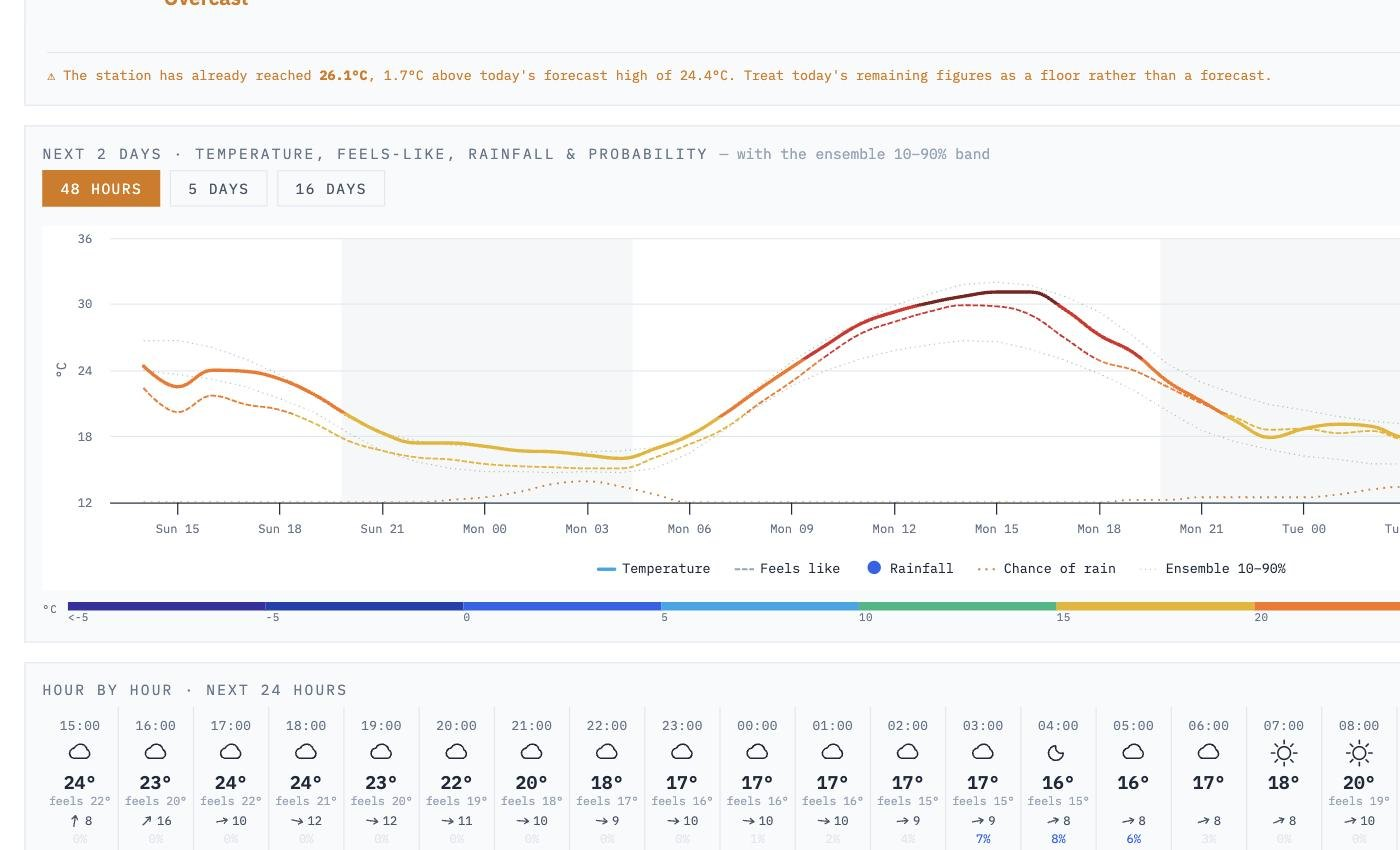
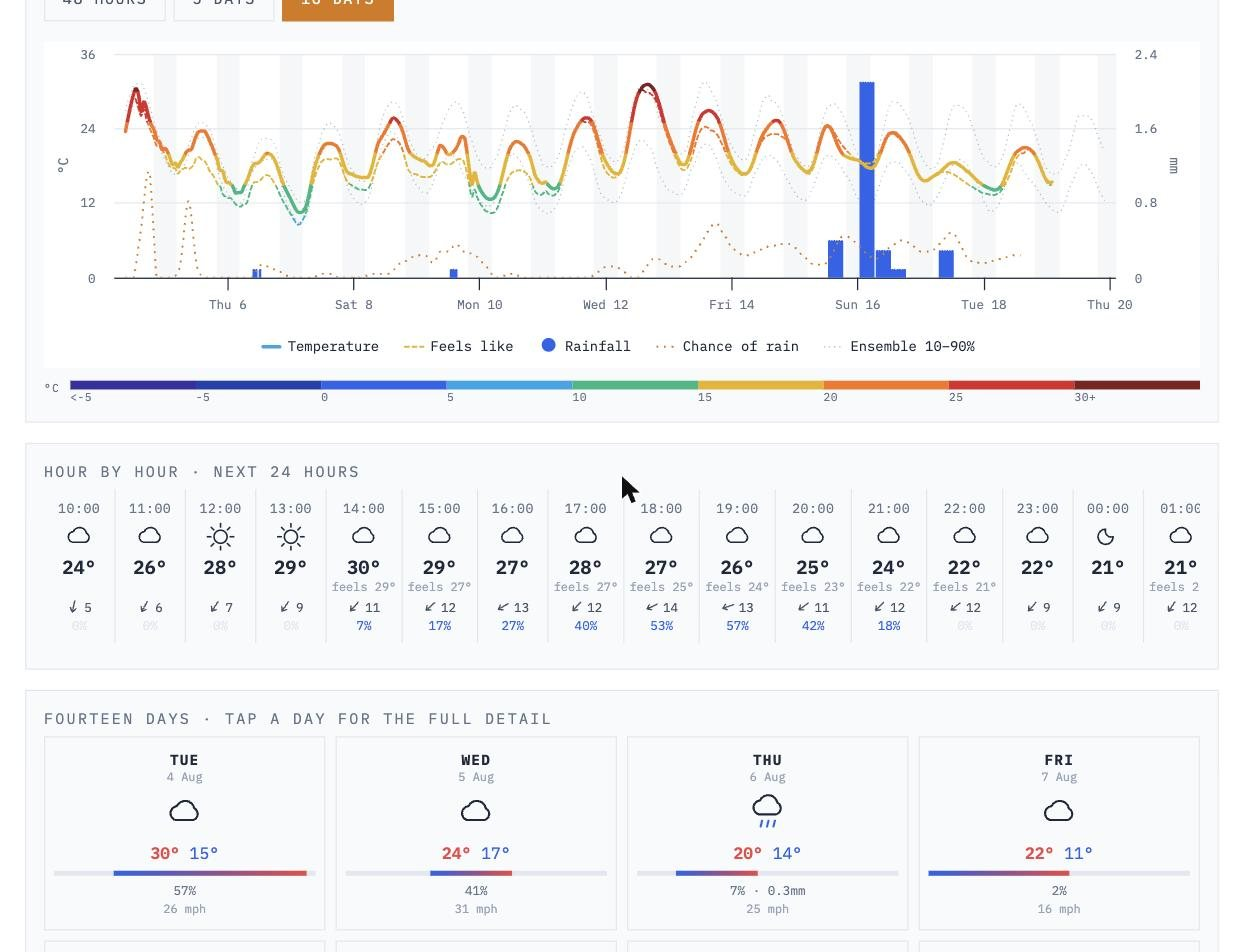
v1.5.0 — anemometer health check, dark screenshot, 16-day forecast shot
verify.py now records the station's daily max wind and gust alongside the
model's and tracks the ratio over months. The absolute ratio is not the
signal — a sheltered low mast genuinely reads well under an open-terrain 10m
model and always will. A bearing drying out shows as that ratio falling while
nothing about the site changes, so only the trend is diagnostic. Verdicts:
collecting (under 14 days), steady, watch (12-25% down on baseline), check the
bearing (25%+).

Gust-to-mean is tracked too, with its blind spot documented: uniform friction
drags mean and gust down together and leaves that ratio unchanged.

Wind is read through a new to_mph() because weewx reports it in whatever unit
it is configured for — this station publishes km/h, so comparing raw numbers
would have been meaningless.

Screenshots: forecast recaptured on the 16-day view, and a dark-theme
dashboard added so the theme is visible to anyone browsing the repo.

diff --git a/index.html b/index.html
@@ -8,7 +8,7 @@
 <title>Fenland</title>
 <link rel="preconnect" href="https://fonts.googleapis.com">
 <link href="https://fonts.googleapis.com/css2?family=IBM+Plex+Mono:wght@400;500;600;700&family=IBM+Plex+Sans:wght@400;500;600;700&display=swap" rel="stylesheet">
-<script src="config.js?v=1.4.0"></script>
+<script src="config.js?v=1.5.0"></script>
 <script>
 /* Resolve the theme before the stylesheets paint, otherwise a dark-mode user
    gets a white flash on every load. Deliberately inline and dependency-free:
@@ -42,8 +42,8 @@
   } catch (e) { /* a broken config must never leave the page unstyled */ }
 })();
 </script>
-<link rel="stylesheet" href="css/dashboard.css?v=1.4.0">
-<link rel="stylesheet" href="css/panels.css?v=1.4.0">
+<link rel="stylesheet" href="css/dashboard.css?v=1.5.0">
+<link rel="stylesheet" href="css/panels.css?v=1.5.0">
 <script src="https://cdn.jsdelivr.net/npm/mqtt@5/dist/mqtt.min.js"></script>
 </head>
 <body>
@@ -327,16 +327,16 @@
     </div>
   </div>
 
-<script src="src/units.js?v=1.4.0"></script>
-<script src="src/colours.js?v=1.4.0"></script>
-<script src="src/airquality.js?v=1.4.0"></script>
-<script src="src/dashboard.js?v=1.4.0"></script>
-<script src="src/ensemble.js?v=1.4.0"></script>
-<script src="src/forecast.js?v=1.4.0"></script>
-<script src="src/climate.js?v=1.4.0"></script>
-<script src="src/verify-panel.js?v=1.4.0"></script>
-<script src="src/windrose.js?v=1.4.0"></script>
-<script src="src/solar.js?v=1.4.0"></script>
-<script src="src/windy.js?v=1.4.0"></script>
+<script src="src/units.js?v=1.5.0"></script>
+<script src="src/colours.js?v=1.5.0"></script>
+<script src="src/airquality.js?v=1.5.0"></script>
+<script src="src/dashboard.js?v=1.5.0"></script>
+<script src="src/ensemble.js?v=1.5.0"></script>
+<script src="src/forecast.js?v=1.5.0"></script>
+<script src="src/climate.js?v=1.5.0"></script>
+<script src="src/verify-panel.js?v=1.5.0"></script>
+<script src="src/windrose.js?v=1.5.0"></script>
+<script src="src/solar.js?v=1.5.0"></script>
+<script src="src/windy.js?v=1.5.0"></script>
 </body>
 </html>

diff --git a/config.example.js b/config.example.js
@@ -40,7 +40,7 @@ window.WXCONFIG = {
     wind: "mph"
   },
 
-  /* Small "FENLAND v1.4.0" credit in the page footer, linking to the
+  /* Small "FENLAND v1.5.0" credit in the page footer, linking to the
      project. It is how people find the skin — but set false to remove it. */
   credit: true,
 

diff --git a/src/dashboard.js b/src/dashboard.js
@@ -23,7 +23,7 @@
   /* Bump on release. Shown in the footer credit and worth quoting in any
      bug report — "which version are you on" is the first question. */
   const FENLAND = {
-    version: "1.4.0",
+    version: "1.5.0",
     url: "https://github.com/digitalurban/fenland"
   };
 

diff --git a/scripts/verify.py b/scripts/verify.py
@@ -129,6 +129,26 @@ def to_c(value, units):
     return v
 
 
+def to_mph(value, units):
+    """weewx may report wind in km/h, m/s, knots or mph depending on how it
+    is configured. Normalise, because the whole point of this check is
+    comparing like with like over months."""
+    if value is None:
+        return None
+    try:
+        v = float(value)
+    except (TypeError, ValueError):
+        return None
+    u = str(units or "").strip().lower().replace(" ", "")
+    if u in ("km/h", "kmh", "kph"):
+        return v * 0.621371
+    if u in ("m/s", "ms", "mps"):
+        return v * 2.236936
+    if u in ("knot", "knots", "kt", "kts"):
+        return v * 1.150779
+    return v                      # already mph, or unlabelled
+
+
 def to_mm(value, units):
     if value is None:
         return None
@@ -166,6 +186,8 @@ def fetch_observed():
         "tmax": grab("max temperature", to_c),
         "tmin": grab("min temperature", to_c),
         "rain": grab("rain total", to_mm),
+        "wind": grab("max wind speed", to_mph),
+        "gust": grab("max wind gust", to_mph),
     }
 
 
@@ -218,6 +240,119 @@ def fetch_forecast():
                 per_model[m] = vals
         if per_model:
             out[date] = per_model
+    return out
+
+
+
+# ── anemometer health ─────────────────────
+def fetch_reference_wind(days=3):
+    """The model's own view of the last few days, used as a yardstick for the
+    station's anemometer. Not a forecast — past_days returns the analysis, so
+    it is the best available estimate of what the wind actually did."""
+    params = {
+        "latitude": f"{LAT:.4f}", "longitude": f"{LON:.4f}",
+        "daily": "wind_speed_10m_max,wind_gusts_10m_max",
+        "timezone": TZ, "wind_speed_unit": "mph",
+        "past_days": days, "forecast_days": 1,
+    }
+    r = requests.get(FORECAST_URL, params=params, timeout=45)
+    r.raise_for_status()
+    d = (r.json() or {}).get("daily") or {}
+    out = {}
+    for i, date in enumerate(d.get("time", [])):
+        spd = (d.get("wind_speed_10m_max") or [None])[i:i+1]
+        gus = (d.get("wind_gusts_10m_max") or [None])[i:i+1]
+        out[date] = {"wind": spd[0] if spd else None,
+                     "gust": gus[0] if gus else None}
+    return out
+
+
+def _median(xs):
+    xs = sorted(x for x in xs if x is not None)
+    if not xs:
+        return None
+    n = len(xs)
+    return xs[n // 2] if n % 2 else (xs[n // 2 - 1] + xs[n // 2]) / 2.0
+
+
+def anemometer(store):
+    """Watch the station's wind against the model's, and say whether the
+    relationship is drifting.
+
+    The absolute ratio means little on its own: a lower mast in a sheltered
+    village will always read well under an open-terrain 10m model, and that
+    is siting, not a fault. What matters is CHANGE. A bearing that is drying
+    out adds friction gradually, so the ratio falls over weeks to months
+    while nothing else about the site alters.
+
+    Gust ratio is tracked alongside because a stiffening rotor loses the
+    peaks before it loses the mean — but note it cannot catch uniform
+    under-reading, where mean and gust fall together and their ratio holds.
+    """
+    obs = store.get("observations", {})
+    ref = store.get("reference", {})
+    rows = []
+    for date in sorted(obs):
+        o, r = obs[date], ref.get(date)
+        if not r:
+            continue
+        if o.get("wind") and r.get("wind"):
+            rows.append({
+                "date": date,
+                "speed": o["wind"] / r["wind"] if r["wind"] else None,
+                "gust": (o["gust"] / r["gust"]) if o.get("gust") and r.get("gust") else None,
+                "ratio_g2m": (o["gust"] / o["wind"]) if o.get("gust") and o["wind"] else None,
+            })
+
+    today = dt.date.today()
+    def window(lo, hi):
+        a = (today - dt.timedelta(days=hi)).isoformat()
+        b = (today - dt.timedelta(days=lo)).isoformat()
+        return [x for x in rows if a <= x["date"] <= b]
+
+    recent = window(0, 30)
+    baseline = window(31, 120)
+
+    out = {
+        "days": len(rows),
+        "recent_days": len(recent),
+        "speed_ratio_recent": _median([x["speed"] for x in recent]),
+        "gust_ratio_recent": _median([x["gust"] for x in recent]),
+        "gust_to_mean_recent": _median([x["ratio_g2m"] for x in recent]),
+        "speed_ratio_baseline": _median([x["speed"] for x in baseline]),
+        "verdict": None,
+        "note": None,
+    }
+
+    if len(recent) < 14:
+        out["verdict"] = "collecting"
+        out["note"] = (f"{len(recent)} of 14 days needed before this means anything.")
+        return out
+
+    r_now, r_base = out["speed_ratio_recent"], out["speed_ratio_baseline"]
+    if r_base and r_now and len(baseline) >= 21:
+        drop = 1 - (r_now / r_base)
+        out["drop_vs_baseline"] = round(drop, 3)
+        if drop >= 0.25:
+            out["verdict"] = "check the bearing"
+            out["note"] = (f"Reads {drop*100:.0f}% lower against the model than it did "
+                           f"a month or more ago. Spin the cups by hand: they should "
+                           f"turn freely and coast several seconds to a silent stop.")
+        elif drop >= 0.12:
+            out["verdict"] = "watch"
+            out["note"] = f"Down {drop*100:.0f}% on its own baseline — not conclusive, worth watching."
+        else:
+            out["verdict"] = "steady"
+            out["note"] = "No meaningful drift against the model."
+    else:
+        out["verdict"] = "steady"
+        out["note"] = "Not enough history yet for a trend; no drift visible so far."
+
+    g2m = out["gust_to_mean_recent"]
+    if g2m and g2m > 2.6:
+        out["note"] = ((out["note"] or "") +
+                       f" Gusts are running {g2m:.1f}x the mean, which is high — a stiff "
+                       f"rotor loses the average before it loses the peaks.")
     return out
 
 
@@ -437,17 +572,29 @@ def main():
     except Exception as e:
         log(f"could not fetch forecast: {e}")
 
-    # 3. prune anything older than two years, to keep the file sane
+    # 3. the model's own view of the last few days, as an anemometer yardstick
+    try:
+        store.setdefault("reference", {}).update(fetch_reference_wind())
+        log("stored wind reference for the last few days")
+    except Exception as e:
+        log(f"could not fetch wind reference: {e}")
+
+    # 4. prune anything older than two years, to keep the file sane
     cutoff = (dt.date.today() - dt.timedelta(days=730)).isoformat()
     store["observations"] = {k: v for k, v in store["observations"].items() if k >= cutoff}
     store["forecasts"] = {k: v for k, v in store["forecasts"].items() if k >= cutoff}
+    store["reference"] = {k: v for k, v in store.get("reference", {}).items() if k >= cutoff}
     save_store(store)
 
-    # 4. score and publish
+    # 5. score and publish
     recent_from = (dt.date.today() - dt.timedelta(days=RECENT_DAYS)).isoformat()
     all_dates = sorted(store["observations"])
+    air = anemometer(store)
+    log(f"anemometer: {air['verdict']} — {air['note']}")
+
     payload = {
         "generated": int(time.time() * 1000),
+        "anemometer": air,
         "days_collected": len(all_dates),
         "first_date": all_dates[0] if all_dates else None,
         "last_date": all_dates[-1] if all_dates else None,

diff --git a/README.md b/README.md
@@ -286,6 +286,8 @@ what Belchertown does. The initial value is resolved by a small inline script
 in `<head>`, before the stylesheets paint — anything in an external file
 arrives too late and you get a white flash on every load.
 
+<a href="docs/img/dashboard-dark.jpg"><img src="docs/img/dashboard-dark.jpg" width="900" alt="Dark theme"></a>
+
 The gauges, compass and barograph are SVG drawn with those same variables, so
 they follow without special handling. Highcharts caches its theme, so it is
 re-applied and the visible chart redrawn when the mode changes.
@@ -434,6 +436,33 @@ Setup in [docs/verification.md](docs/verification.md).
 
 ---
 
+### Anemometer health
+
+`verify.py` also watches the anemometer. Each night it records the station's
+daily maximum wind and gust alongside the model's for the same day, and tracks
+the ratio between them over months.
+
+The absolute ratio means little on its own — a lower mast in a sheltered
+village will always read well under an open-terrain 10 m model, and that is
+siting, not a fault. What matters is **change**. A bearing drying out adds
+friction gradually, so the ratio falls over weeks while nothing about the site
+alters. The check reports one of:
+
+| Verdict | Meaning |
+|---|---|
+| `collecting` | Fewer than 14 days recorded; says nothing yet |
+| `steady` | No meaningful drift against the model |
+| `watch` | Down 12–25% on its own baseline |
+| `check the bearing` | Down 25% or more — spin the cups by hand |
+
+Gust-to-mean ratio is tracked alongside, since a stiffening rotor loses the
+peaks before the mean. Note its blind spot: if friction drags mean and gust
+down together, that ratio holds steady and only the model comparison catches
+it. Neither test replaces the mechanical one — freely spinning cups coast for
+several seconds to a silent stop.
+
+---
+
 ## Data sources
 
 - **[Open-Meteo](https://open-meteo.com)** — forecast, ensemble and ERA5 archive
@@ -449,7 +478,7 @@ Open-Meteo's paid tier.
 
 ## Status and roadmap
 
-Version 1.4.0. Running in production at
+Version 1.5.0. Running in production at
 [digitalurban.github.io/fenland](https://digitalurban.github.io/fenland/), which
 is also the demo — so if the demo is broken, so is the author's weather station.
 

diff --git a/docs/index.md b/docs/index.md
@@ -286,6 +286,8 @@ what Belchertown does. The initial value is resolved by a small inline script
 in `<head>`, before the stylesheets paint — anything in an external file
 arrives too late and you get a white flash on every load.
 
+<a href="img/dashboard-dark.jpg"><img src="img/dashboard-dark.jpg" width="900" alt="Dark theme"></a>
+
 The gauges, compass and barograph are SVG drawn with those same variables, so
 they follow without special handling. Highcharts caches its theme, so it is
 re-applied and the visible chart redrawn when the mode changes.
@@ -434,6 +436,33 @@ Setup in [docs/verification.md](docs/verification.md).
 
 ---
 
+### Anemometer health
+
+`verify.py` also watches the anemometer. Each night it records the station's
+daily maximum wind and gust alongside the model's for the same day, and tracks
+the ratio between them over months.
+
+The absolute ratio means little on its own — a lower mast in a sheltered
+village will always read well under an open-terrain 10 m model, and that is
+siting, not a fault. What matters is **change**. A bearing drying out adds
+friction gradually, so the ratio falls over weeks while nothing about the site
+alters. The check reports one of:
+
+| Verdict | Meaning |
+|---|---|
+| `collecting` | Fewer than 14 days recorded; says nothing yet |
+| `steady` | No meaningful drift against the model |
+| `watch` | Down 12–25% on its own baseline |
+| `check the bearing` | Down 25% or more — spin the cups by hand |
+
+Gust-to-mean ratio is tracked alongside, since a stiffening rotor loses the
+peaks before the mean. Note its blind spot: if friction drags mean and gust
+down together, that ratio holds steady and only the model comparison catches
+it. Neither test replaces the mechanical one — freely spinning cups coast for
+several seconds to a silent stop.
+
+---
+
 ## Data sources
 
 - **[Open-Meteo](https://open-meteo.com)** — forecast, ensemble and ERA5 archive
@@ -449,7 +478,7 @@ Open-Meteo's paid tier.
 
 ## Status and roadmap
 
-Version 1.4.0. Running in production at
+Version 1.5.0. Running in production at
 [digitalurban.github.io/fenland](https://digitalurban.github.io/fenland/), which
 is also the demo — so if the demo is broken, so is the author's weather station.
 

diff --git a/docs/verification.md b/docs/verification.md
@@ -144,3 +144,28 @@ coarser one.
 
 The history file is pruned to two years and stays small — a few hundred KB
 after a year.
+
+
+## Anemometer health
+
+The nightly run also records the station's daily maximum wind and gust, and
+compares them with the model's for the same day. Over months a falling ratio
+is the signature of a bearing drying out — friction builds gradually while
+nothing about the site changes.
+
+The absolute ratio is not the signal. A sheltered or low-mounted anemometer
+genuinely reads well below an open-terrain 10 m model, and always will. Only
+the *trend* is diagnostic, which is why this needs a fortnight before it says
+anything and a couple of months before it says much.
+
+Output appears in `verification.json` under `anemometer`:
+
+```json
+{ "verdict": "steady", "days": 96, "speed_ratio_recent": 0.66,
+  "gust_to_mean_recent": 2.0, "note": "No meaningful drift against the model." }
+```
+
+A verdict of `check the bearing` means it is reading 25% or more below its own
+established baseline. Confirm mechanically before buying parts: spin the cups
+by hand — they should turn freely and coast several seconds to a smooth, silent
+stop. Grinding, roughness, or stopping almost at once is the bearing.

diff --git a/weewx/README.md b/weewx/README.md
@@ -61,7 +61,7 @@ Before `</body>`:
 shape. Without a `windy` block in `config.js` it hides itself and does
 nothing, so it is safe to include either way.
 
-If you update Fenland later, add `?v=1.4.0` (or whatever version you are on)
+If you update Fenland later, add `?v=1.5.0` (or whatever version you are on)
 to each `src` above and bump it when you upgrade. Browsers cache these files
 hard, so without it your visitors keep running the old copy. The standalone
 `index.html` does this automatically via `build.py`; hand-written tags do not.
